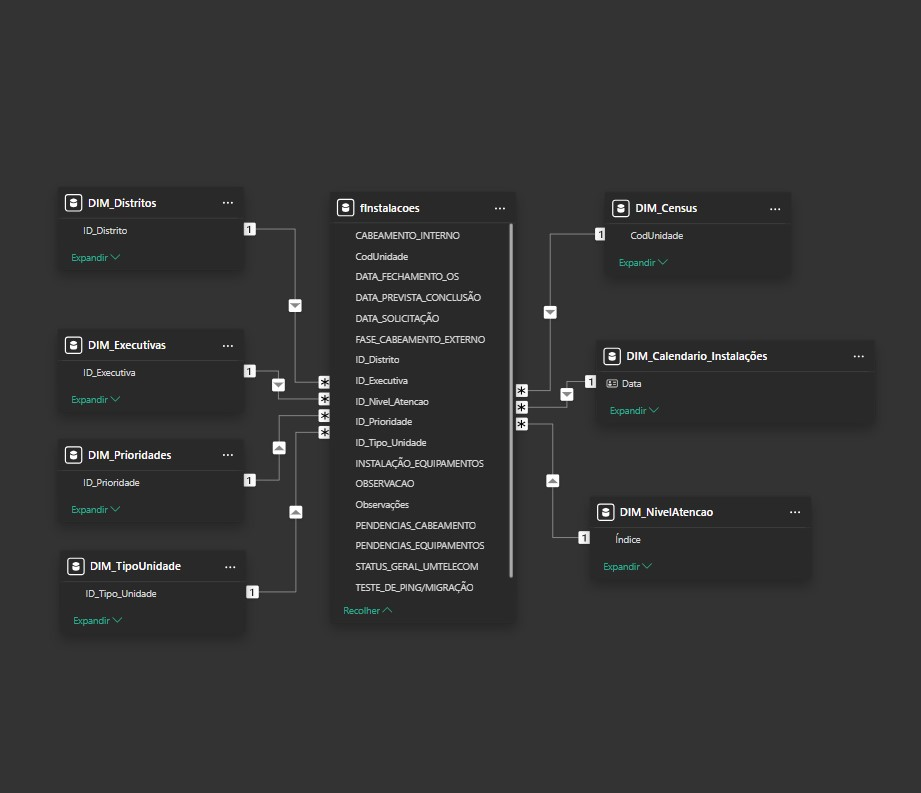
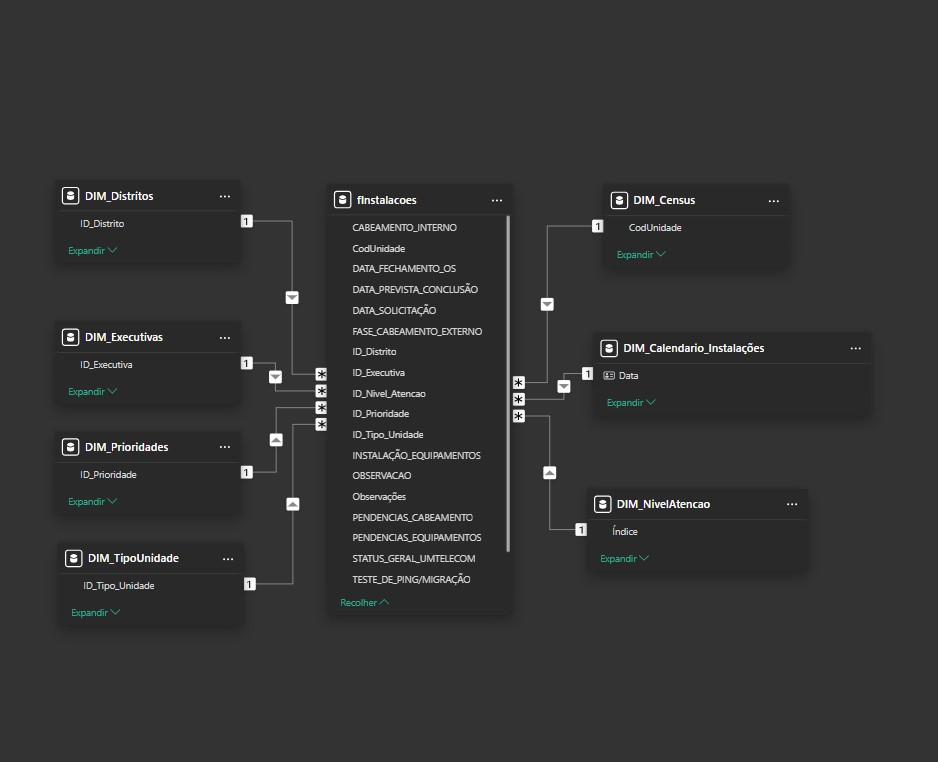
update: "alteracao mudanca tipo imagem"

diff --git a/projeto6.html b/projeto6.html
@@ -187,7 +187,7 @@
                 </div>
 
                 <div class="column right4">
-                    <img src="media/works/modelagem_dash_instalacoes.png" alt="Dashboard de Instalações">
+                    <img src="media/works/modelagem_dash_instalacoes.jpg" alt="Dashboard de Instalações">
                 </div>
 
             </div>
